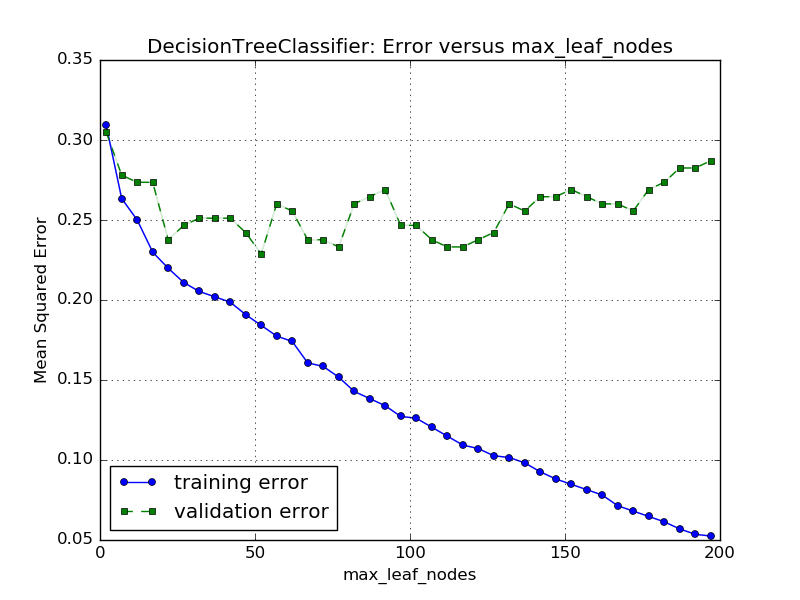
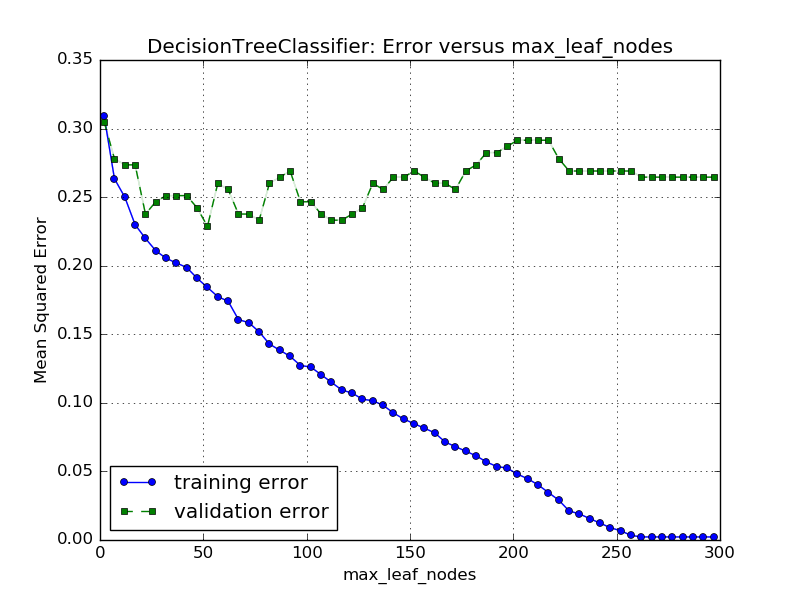
running

diff --git a/Assignment1/validation_curves_tree.py b/Assignment1/validation_curves_tree.py
@@ -95,7 +95,7 @@ class validation_curves:
                        'min_samples_split': np.arange(1, 200, 5),
                        'min_samples_leaf': np.arange(2, 200, 5),
                        'min_weight_fraction_leaf': np.arange(0.0, 0.5, 0.05),
-                       'max_leaf_nodes': np.arange(2, 200, 5)}
+                       'max_leaf_nodes': np.arange(2, 300, 5)}
         #params_dict = {'max_depth': np.arange(1, 40, 1)}
         
         learner_name = 'DecisionTreeClassifier'
